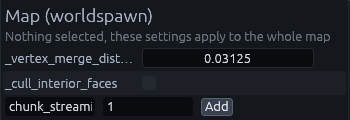
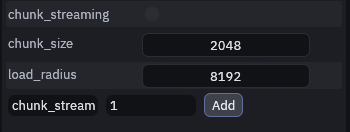
Retake the chunk streaming screenshots in the card look

diff --git a/docs/godot/streaming.md b/docs/godot/streaming.md
@@ -18,7 +18,7 @@ The build sorts the map's meshes into chunks on a grid, and only the chunks near
 
     You should see it listed with the other worldspawn keys:
 
-    ![The worldspawn Inspector with chunk_streaming set to 1](../assets/streaming/worldspawn-chunk-streaming.png)
+    ![The worldspawn Inspector with chunk_streaming ticked](../assets/streaming/worldspawn-chunk-streaming.png)
 
 3. Save the map
 
